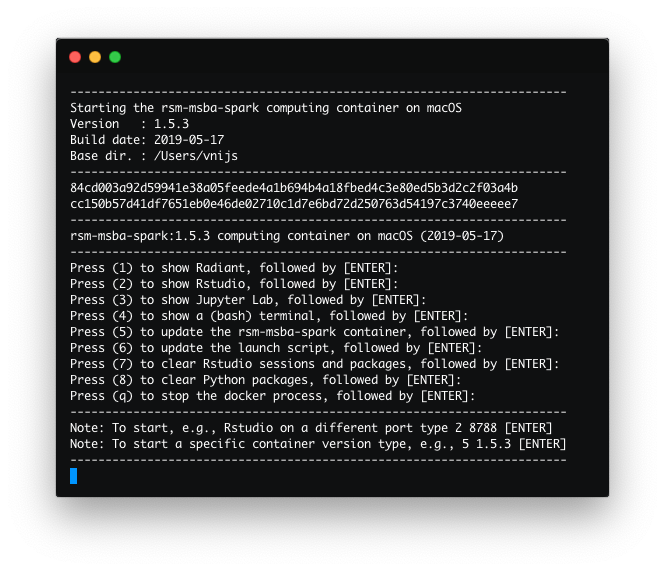
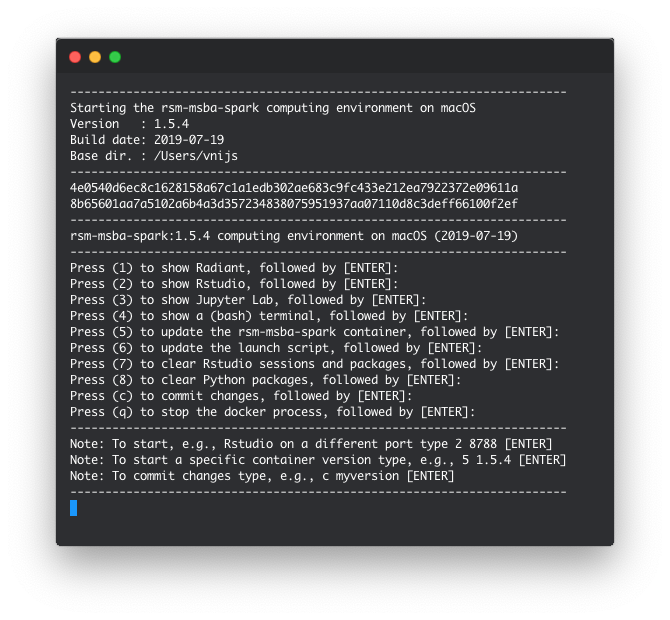
1.5.4

diff --git a/install/rsm-msba-macos.md b/install/rsm-msba-macos.md
@@ -3,6 +3,7 @@
   - [Updating the RSM-MSBA computing environment on macOS](#updating-the-rsm-msba-computing-environment-on-macos) 
   - [Connecting to postgresql](#connecting-to-postgresql)
   - [Installing R and Python packages locally](#installing-r-and-python-packages-locally)
+  - [Committing changes to the computing environment](#committing-changes-to-the-computing-environment)
   - [Cleanup](#cleanup)
   - [Trouble shooting](#trouble-shooting)
 
@@ -129,9 +130,52 @@ After installing a module you will have to restart any running Python kernels to
 
 To remove locally installed R packages press 7 (and Enter) in the launch menu and follow the prompts. To remove locally installed Python modules press 8 (and Enter) in the launch menu. 
 
+## Committing changes to the computing environment
+
+By default re-starting the docker computing environment will remove any changes you made. This allows you to experiment freely, without having to worry about "breaking" things. However, there are times when you might want to keep changes. 
+
+As shown in the previous section, you can install R and Python packages locally rather than in the container. These packages will still be available after a container restart. 
+
+To install binary R packages for Ubuntu Linux you can use the command below. These packages will *not* be installed locally and would normally not be available after a restart.
+
+```bash
+sudo apt update;
+sudo apt install r-cran-ada;
+```
+
+Similarly, some R-packages have requirements that need to be installed in the container (e.g., the `rgdal` package). The following two linux packages would need to be installed from a terminal in the container as follows:
+
+```bash
+sudo apt update;
+sudo apt install libgdal-dev libproj-dev; 
+```
+
+After completing the step above you can install the `rgdal` R-package locally using the following from Rstudio:
+
+`install.packages("rgdal", lib = Sys.getenv("R_LIBS_USER"))`
+
+To save (or commit) these changes so they *will* be present after a (container) restart type, for example, c myimage (and Enter). This creates a new docker image with your changes and also a new launch script on your Desktop with the name `launch-rsm-msba-spark-myimage.command` that you can use to launch your customized environment in the future.
+
+If you want to share your customized version of the container with others (e.g., team members) you can push it is to Docker Hub <a href="https://hub.docker.com" target="_blank">https://hub.docker.com</a> by following the menu dialog after typing, e.g., c myimage (and Enter). To create an account on Docker Hub go to <a href="https://hub.docker.com/signup" target="_blank">https://hub.docker.com/signup</a>.
+
+If you want to remove specific images from your computer run the commands below from a (bash) terminal. The first command generates a list of the images you have available. 
+
+`docker image ls;`
+
+Select the IMAGE ID for the image you want to remove, e.g., 42b88eb6adf8, and then run the following command with the correct image id:
+
+`docker rmi 42b88eb6adf8;`
+
+For additional resources on developing docker images see the links below:
+
+* https://colinfay.me/docker-r-reproducibility/
+* https://www.fullstackpython.com/docker.html
+
 ## Cleanup
 
 To remove any prior Rstudio sessions, and locally installed R-packages, press 6 (and Enter) in the launch menu. To remove locally installed Python modules press 7 (and Enter) in the launch menu.
+
+> Note: It is also possible initiate the process of removing locally installed packages and settings from within the container. Open a terminal in Jupyter Lab or Rstudio and type `clean`. Then follow the prompts to indicate what needs to be removed.
 
 You should always stop the `rsm-msba-spark` docker container using `q` (and Enter) in the launch menu. If you want a full cleanup and reset of the computational environment on your system, however, execute the following commands from a (bash) terminal to (1) remove prior R(studio) and Python settings, (2) remove all docker images, networks, and (data) volumes, and (3) 'pull' only the docker image you need (e.g., rsm-msba-spark):
 

diff --git a/install/rsm-msba-linux.md b/install/rsm-msba-linux.md
@@ -3,6 +3,7 @@
   - [Updating the RSM-MSBA computing environment on Linux](#updating-the-rsm-msba-computing-environment-on-linux)
   - [Connecting to postgresql](#connecting-to-postgresql)
   - [Installing R and Python packages locally](#installing-r-and-python-packages-locally)
+  - [Committing changes to the computing environment](#committing-changes-to-the-computing-environment)
   - [Cleanup](#cleanup)
   - [Trouble shooting](#trouble-shooting)
 
@@ -132,9 +133,52 @@ After installing a module you will have to restart any running Python kernels to
 
 To remove locally installed R packages press 7 (and Enter) in the launch menu and follow the prompts. To remove locally installed Python modules press 8 (and Enter) in the launch menu.
 
+## Committing changes to the computing environment
+
+By default re-starting the docker computing environment will remove any changes you made. This allows you to experiment freely, without having to worry about "breaking" things. However, there are times when you might want to keep changes. 
+
+As shown in the previous section, you can install R and Python packages locally rather than in the container. These packages will still be available after a container restart. 
+
+To install binary R packages for Ubuntu Linux you can use the command below. These packages will *not* be installed locally and would normally not be available after a restart.
+
+```bash
+sudo apt update;
+sudo apt install r-cran-ada;
+```
+
+Similarly, some R-packages have requirements that need to be installed in the container (e.g., the `rgdal` package). The following two linux packages would need to be installed from a terminal in the container as follows:
+
+```bash
+sudo apt update;
+sudo apt install libgdal-dev libproj-dev; 
+```
+
+After completing the step above you can install the `rgdal` R-package locally using the following from Rstudio:
+
+`install.packages("rgdal", lib = Sys.getenv("R_LIBS_USER"))`
+
+To save (or commit) these changes so they *will* be present after a (container) restart type, for example, c myimage (and Enter). This creates a new docker image with your changes and also a new launch script on your Desktop with the name `launch-rsm-msba-spark-myimage.sh` that you can use to launch your customized environment in the future.
+
+If you want to share your customized version of the container with others (e.g., team members) you can push it is to Docker Hub <a href="https://hub.docker.com" target="_blank">https://hub.docker.com</a> by following the menu dialog after typing, e.g., c myimage (and Enter). To create an account on Docker Hub go to <a href="https://hub.docker.com/signup" target="_blank">https://hub.docker.com/signup</a>.
+
+If you want to remove specific images from your computer run the commands below from a (bash) terminal. The first command generates a list of the images you have available. 
+
+`docker image ls;`
+
+Select the IMAGE ID for the image you want to remove, e.g., 42b88eb6adf8, and then run the following command with the correct image id:
+
+`docker rmi 42b88eb6adf8;`
+
+For additional resources on developing docker images see the links below:
+
+* https://colinfay.me/docker-r-reproducibility/
+* https://www.fullstackpython.com/docker.html
+
 ## Cleanup
 
 To remove any prior Rstudio sessions, and locally installed R-packages, press 6 (and Enter) in the launch menu. To remove locally installed Python modules press 7 (and Enter) in the launch menu.
+
+> Note: It is also possible initiate the process of removing locally installed packages and settings from within the container. Open a terminal in Jupyter Lab or Rstudio and type `clean`. Then follow the prompts to indicate what needs to be removed.
 
 You should always stop the `rsm-msba-spark` docker container using `q` (and Enter) in the launch menu. If you want a full cleanup and reset of the computational environment on your system, however, execute the following commands from a (bash) terminal to (1) remove prior R(studio) and Python settings, (2) remove all docker images, networks, and (data) volumes, and (3) 'pull' only the docker image you need (e.g., rsm-msba-spark):
 

diff --git a/install/rsm-msba-windows.md b/install/rsm-msba-windows.md
@@ -3,6 +3,7 @@
   - [Updating the RSM-MSBA computing environment on Windows](#updating-the-rsm-msba-computing-environment-on-windows)
   - [Connecting to postgresql](#connecting-to-postgresql)
   - [Installing R and Python packages locally](#installing-r-and-python-packages-locally)
+  - [Committing changes to the computing environment](#committing-changes-to-the-computing-environment)
   - [Cleanup](#cleanup)
   - [Trouble shooting](#trouble-shooting)
 
@@ -165,9 +166,52 @@ After installing a module you will have to restart any running Python kernels to
 
 To remove locally installed R packages press 7 (and Enter) in the launch menu and follow the prompts. To remove locally installed Python modules press 8 (and Enter) in the launch menu.
 
+## Committing changes to the computing environment
+
+By default re-starting the docker computing environment will remove any changes you made. This allows you to experiment freely, without having to worry about "breaking" things. However, there are times when you might want to keep changes. 
+
+As shown in the previous section, you can install R and Python packages locally rather than in the container. These packages will still be available after a container restart. 
+
+To install binary R packages for Ubuntu Linux you can use the command below. These packages will *not* be installed locally and would normally not be available after a restart.
+
+```bash
+sudo apt update;
+sudo apt install r-cran-ada;
+```
+
+Similarly, some R-packages have requirements that need to be installed in the container (e.g., the `rgdal` package). The following two linux packages would need to be installed from a terminal in the container as follows:
+
+```bash
+sudo apt update;
+sudo apt install libgdal-dev libproj-dev; 
+```
+
+After completing the step above you can install the `rgdal` R-package locally using the following from Rstudio:
+
+`install.packages("rgdal", lib = Sys.getenv("R_LIBS_USER"))`
+
+To save (or commit) these changes so they *will* be present after a (container) restart type, for example, c myimage (and Enter). This creates a new docker image with your changes and also a new launch script on your Desktop with the name `launch-rsm-msba-spark-myimage.sh` that you can use to launch your customized environment in the future.
+
+If you want to share your customized version of the container with others (e.g., team members) you can push it is to Docker Hub <a href="https://hub.docker.com" target="_blank">https://hub.docker.com</a> by following the menu dialog after typing, e.g., c myimage (and Enter). To create an account on Docker Hub go to <a href="https://hub.docker.com/signup" target="_blank">https://hub.docker.com/signup</a>.
+
+If you want to remove specific images from your computer run the commands below from a (bash) terminal. The first command generates a list of the images you have available. 
+
+`docker image ls;`
+
+Select the IMAGE ID for the image you want to remove, e.g., 42b88eb6adf8, and then run the following command with the correct image id:
+
+`docker rmi 42b88eb6adf8;`
+
+For additional resources on developing docker images see the links below:
+
+* https://colinfay.me/docker-r-reproducibility/
+* https://www.fullstackpython.com/docker.html
+
 ## Cleanup
 
 To remove any prior Rstudio sessions, and locally installed R-packages, press 6 + Enter in the launch menu. To remove locally installed Python packages press 7 + Enter in the launch menu.
+
+> Note: It is also possible initiate the process of removing locally installed packages and settings from within the container. Open a terminal in Jupyter Lab or Rstudio and type `clean`. Then follow the prompts to indicate what needs to be removed.
 
 You should always stop the `rsm-msba-spark` docker container using `q` (and Enter) in the launch menu. If you want a full cleanup and reset of the computational environment on your system, however, execute the following commands from a (bash) terminal to (1) remove prior R(studio) and Python settings, (2) remove all docker images, networks, and (data) volumes, and (3) 'pull' only the docker image you need (e.g., rsm-msba-spark):
 
